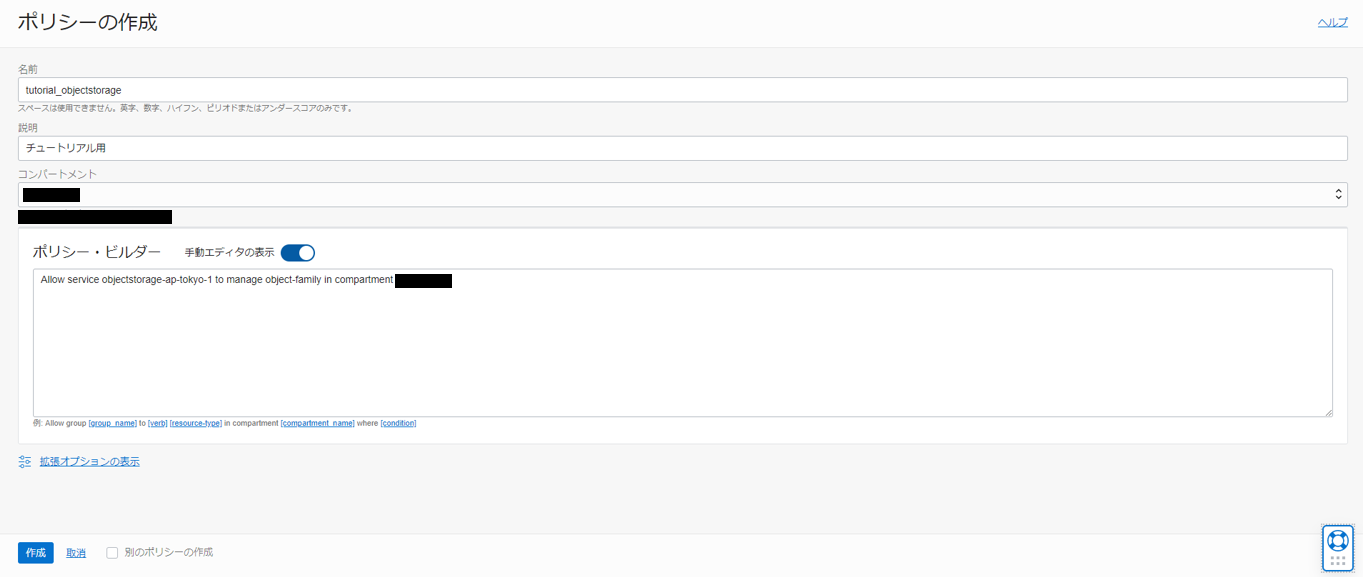
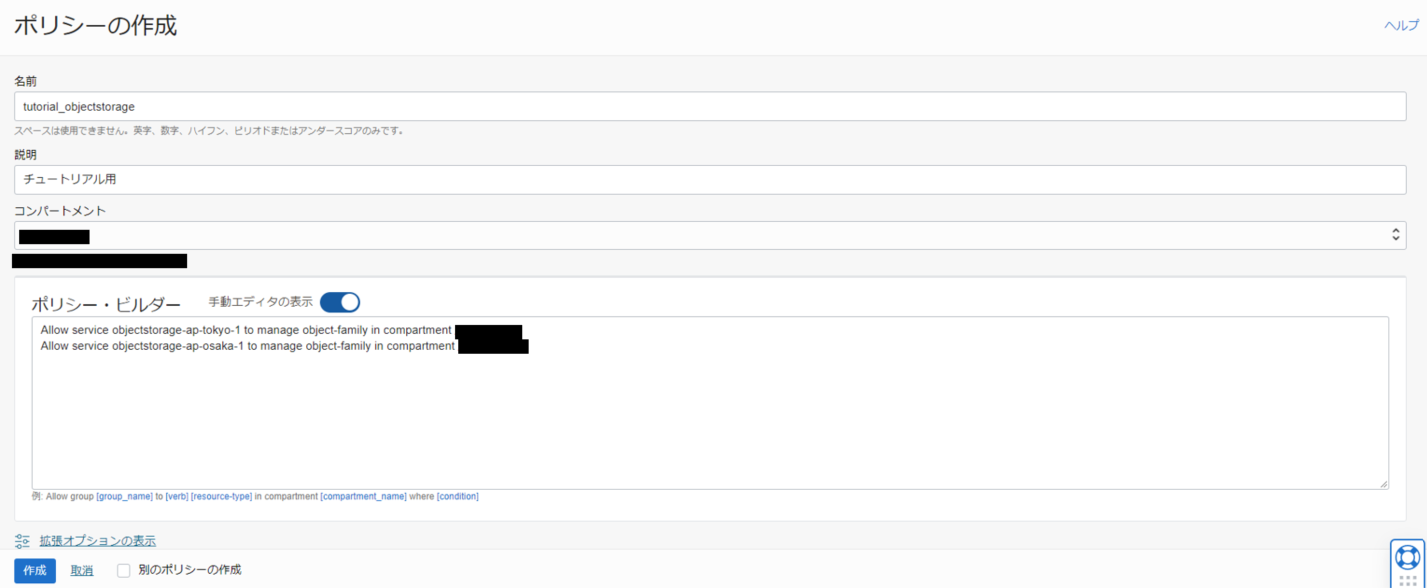
応用編「オブジェクト・ストレージの高度な設定」のIAMポリシーの設定の一部文章と画像の変更

diff --git a/tutorials/_intermediates/object-storage-advanced.md b/tutorials/_intermediates/object-storage-advanced.md
@@ -42,13 +42,15 @@ header:
 
 # 1. IAMポリシーの設定
 
-今回のチュートリアルで設定するライフサイクル・ポリシー、レプリケーションそしてオブジェクトのコピーを作成する際は、ユーザがバケットやオブジェクトを操作する権限を持つ以外に、リージョンごとにユーザーに代わってオブジェクト・ストレージのサービス自身がバケットやオブジェクトを操作するためのサービス権限を設定する必要があります。サービス権限はソース・リージョンに対して設定する必要があり、宛先リージョンには設定する必要はありません。
+今回のチュートリアルで設定するライフサイクル・ポリシー、レプリケーションそしてオブジェクトのコピーを作成する際は、ユーザがバケットやオブジェクトを操作する権限を持つ以外に、リージョンごとにユーザーに代わってオブジェクト・ストレージのサービス自身がバケットやオブジェクトを操作するためのサービス権限を設定する必要があります。サービス権限はソース・リージョンと宛先リージョンの両方に設定する必要があります。
 
 1. 左上のメニューから **`アイデンティティとセキュリティ → ポリシー`** を選択します。 そして **`ポリシーの作成`** ボタンを押します。
    - **`名前`** - 任意（このチュートリアルではtutorial_objectstorageとします）
    - **`説明`** - 任意（このチュートリアルではチュートリアル用とします）
    - **`コンパートメント`**　- コンパートメントを選択します
-   - **`ポリシー・ビルダー`** - Allow service objectstorage-<リージョン識別子> to manage object-family in tenancy/compartment <コンパートメント名>
+   - **`ポリシー・ビルダー`** 
+     -  Allow service objectstorage-<リージョン識別子（ソース・リージョン）> to manage object-family in tenancy/compartment <コンパートメント名>
+     -  Allow service objectstorage-<リージョン識別子（宛先リージョン）> to manage object-family in tenancy/compartment <コンパートメント名>  
 
         ![img1.png](img1.png)    
 
